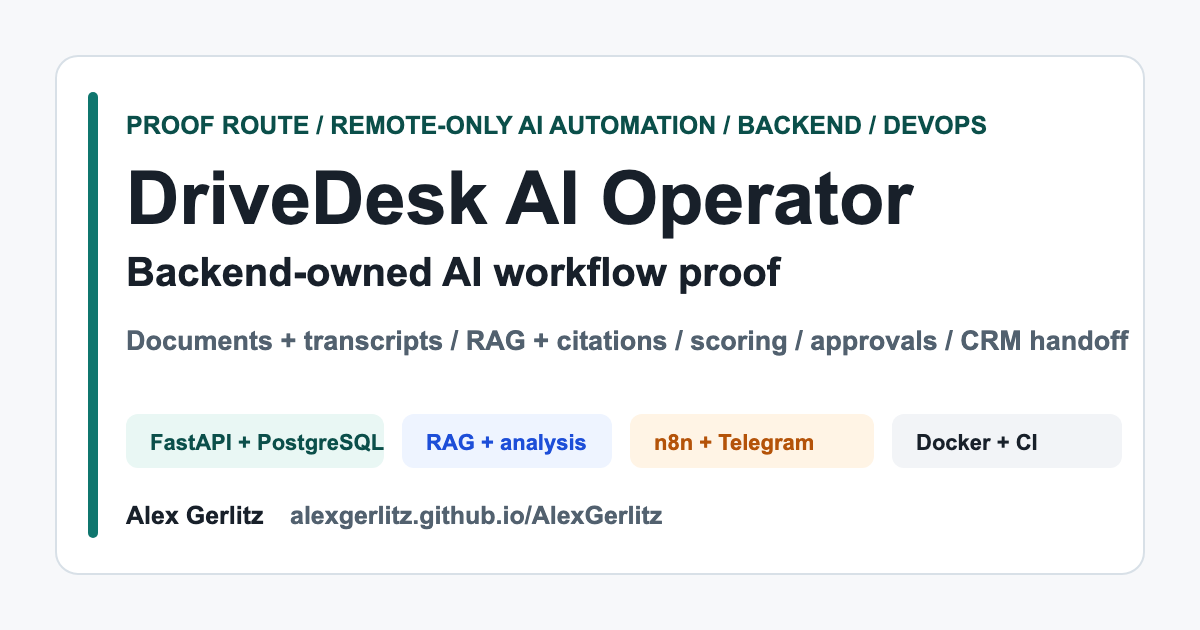
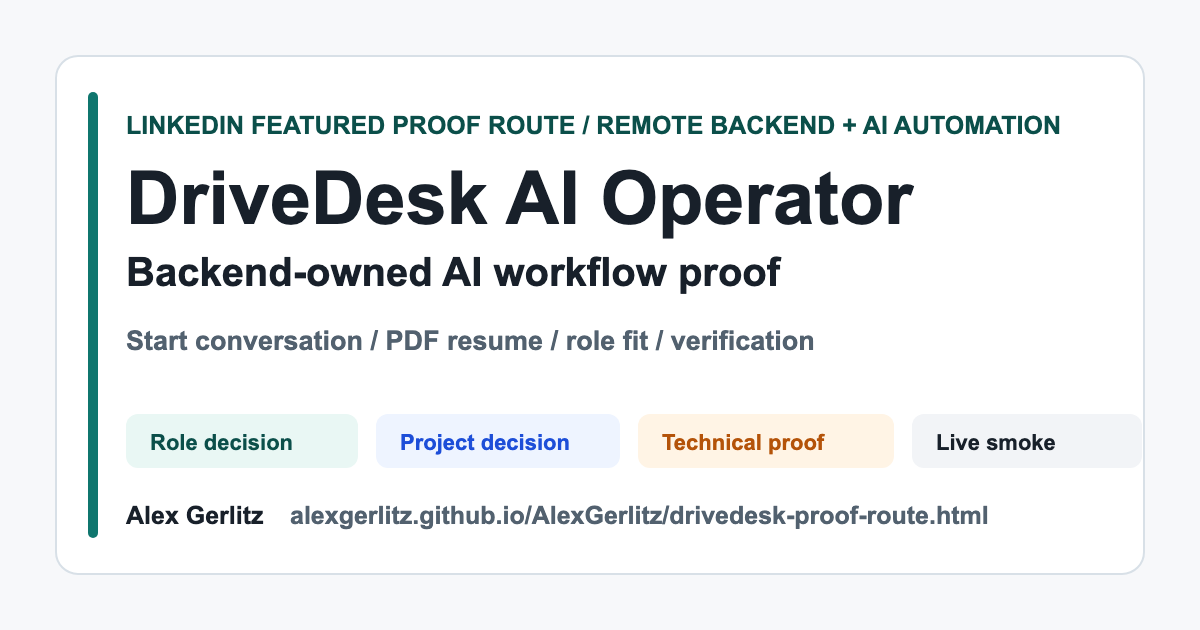
Update proof route social preview

diff --git a/scripts/audit_public_profile.py b/scripts/audit_public_profile.py
@@ -375,7 +375,11 @@ REQUIRED_TEXT = {
     "assets/social-card.svg": [
         "DriveDesk AI Operator - Proof Route",
         "Backend-owned AI workflow proof",
-        "Documents + transcripts / RAG + citations / scoring / approvals / CRM handoff",
+        "Start conversation / PDF resume / role fit / verification",
+        "Role decision",
+        "Project decision",
+        "Technical proof",
+        "drivedesk-proof-route.html",
     ],
     "INBOUND_RESPONSE_PACK.md": [
         "Contact Routes",
